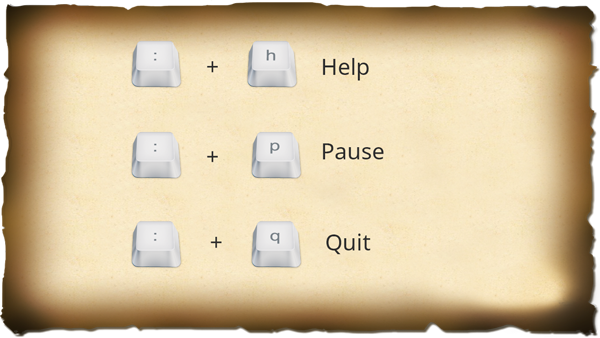
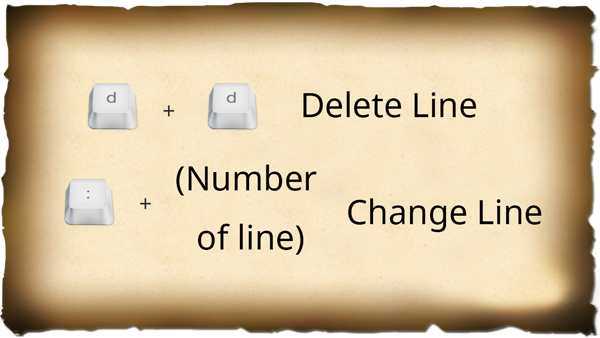
add howToPlayP2 p3 to helpState

diff --git a/core/src/game/gamestates/HelpState.java b/core/src/game/gamestates/HelpState.java
@@ -18,7 +18,7 @@ public class HelpState extends GameState {
 	private SpriteBatch sb;
 	private final String hint = "Press ESCAPE to Skip";
 	private BitmapFont font;
-	private Texture hint1, hint2, left, right, introduction;
+	private Texture hint1, hint2, hint3, left, right, introduction;
 	private float hintBegLeftX = 105;
 	private float hintBegUpY = 170;
 	private Texture currentHint;
@@ -48,6 +48,7 @@ public class HelpState extends GameState {
 
 		hint1 = new Texture(Gdx.files.internal("images/HowToPlayP1.png"));
 		hint2 = new Texture(Gdx.files.internal("images/HowToPlayP2.png"));
+		hint3 = new Texture(Gdx.files.internal("images/HowToPlayP3.png"));
 		left = new Texture(Gdx.files.internal("images/left.png"));
 		right = new Texture(Gdx.files.internal("images/right.png"));
 		introduction = new Texture(Gdx.files.internal("images/Introduction.png"));
@@ -95,7 +96,7 @@ public class HelpState extends GameState {
 			}
 		}
 		if(Gdx.input.isKeyJustPressed(Keys.L)){
-			if( selected < 2 ){
+			if( selected < 3 ){
 				selected++;
 				selectHint();
 			}
@@ -117,6 +118,11 @@ public class HelpState extends GameState {
 			break;
 		case 2:
 			currentHint = hint2;
+			left_enable = true;
+			right_enable = true;
+			break;
+		case 3:
+			currentHint = hint3;
 			left_enable = true;
 			right_enable = false;
 			break;
